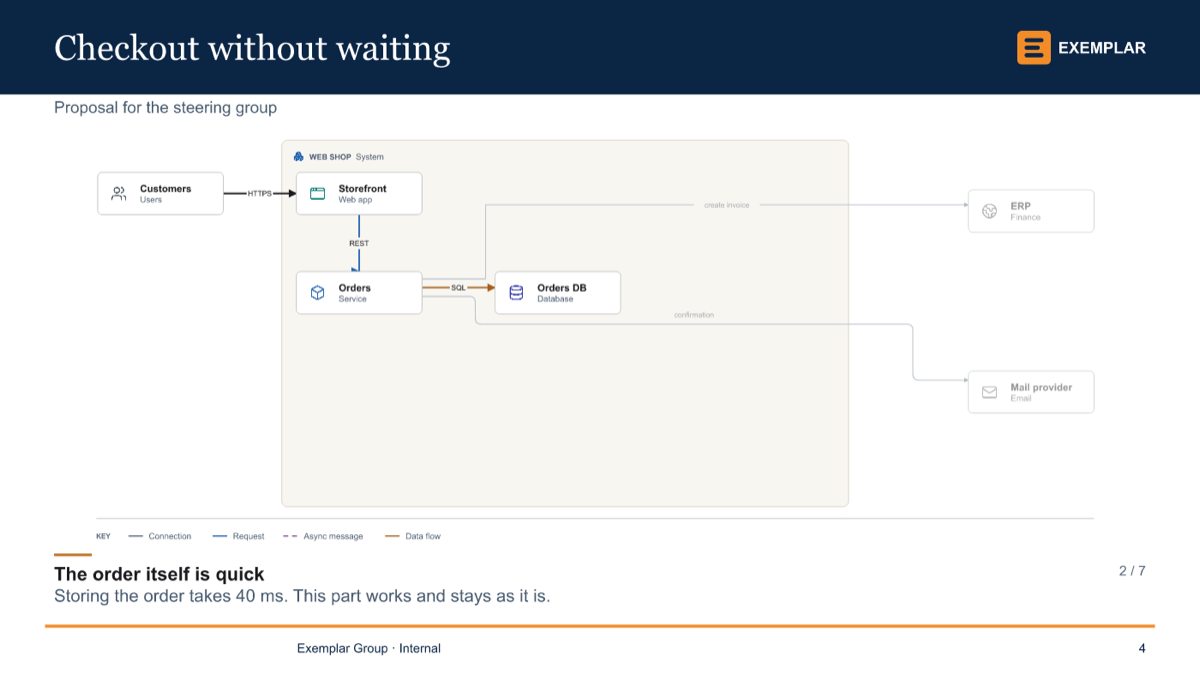
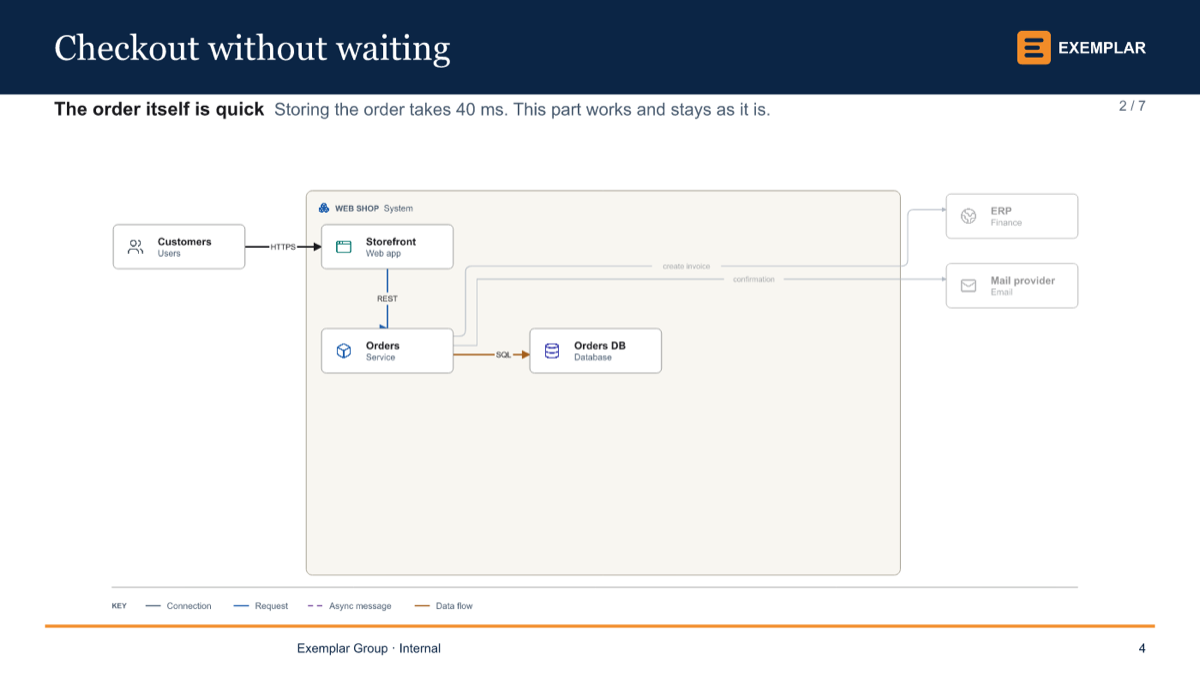
PowerPoint template pictures show today's slides: a step's caption under the title
The three slide pictures in docs/powerpoint-templates are drawn again with
packages/export/test/support/template-demo.ts, the way the guide describes,
and scaled to their old sizes. The walkthrough step now has its title and
caption under the slide title, where the export puts them since the slide
layout changed; the guide's table says so.

Claude-Session: https://claude.ai/code/session_01NyzyPkQaBB3gWNkpmM43DZ

diff --git a/docs/powerpoint-templates.md b/docs/powerpoint-templates.md
@@ -44,7 +44,7 @@ diagram, git branching and a roadmap are the exception: they are one picture on 
 | Diagram title | the layout's title placeholder: position, face, size and colour are the template's |
 | The drawing | the layout's content or picture placeholder when it has one; otherwise the room under the title, between the master's text margins, down to the footers. It keeps clear of what the master and the layout draw there (a logo, a rule, a stripe). In a template it starts under the title rather than in the middle. |
 | Subtitle | a text box under the title, in the template's body face |
-| Step title and caption | the layout's caption placeholder (*Picture with Caption*) when it has one, otherwise under the drawing |
+| Step title and caption | the layout's caption placeholder (*Picture with Caption*) when it has one, otherwise under the title, in the subtitle's row; beside the drawing when the drawing is too tall for what is left under it |
 | Footer, slide number, date | copied from the layout onto each diagram slide, where the master shows them (a master that hides the date keeps it hidden) |
 | Speaker notes | as without a template, on the template's notes master; one is added when it has none |
 | Title slide (`--title`) | the template's **Title Slide** layout, its title and subtitle placeholders |
